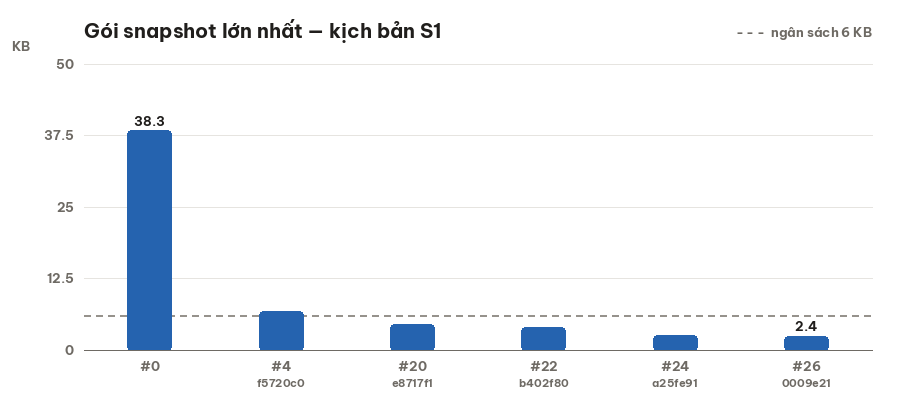
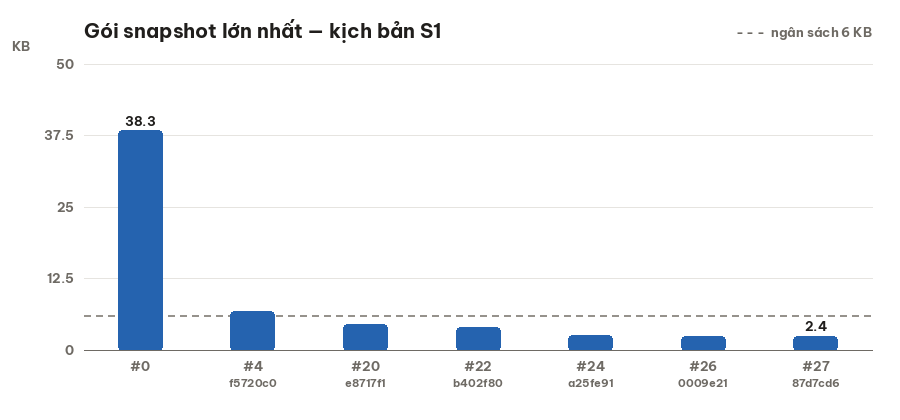
E20: PERF_LOG lượt #27 — S1 lúc máy rảnh p95 1,38 ms (đóng B20, #26 do máy bận), S9 iPhone giả lập 43,2 FPS / 113 MB · báo cáo perf sinh lại

diff --git a/tools/perf-report/report.py b/tools/perf-report/report.py
@@ -169,11 +169,11 @@ def main() -> None:
         "khác nhau trong cùng một cột. Bảng trên chỉ so cùng kịch bản nên con số \"trước\" có thể",
         "khác bảng tay — đó là chủ ý, không phải lỗi.",
         "",
-        "Đối chiếu lượt 01/11 (đo lại trong lượt cuối, #26):",
+        "Đối chiếu lượt 01/11 (đo lại trong lượt cuối, #26–#27):",
         "",
         "| Chỉ số | Báo cáo tay 01/11 | Đo lại #26 | Ghi chú |",
         "|---|---|---|---|",
-        "| Tick p95 | 3,0–3,3 ms | 4,01 ms (S1 local) | máy đang chạy 2 agent build/test song song; #22 cùng máy 2,37 ms → cần đo lại lúc rảnh |",
+        "| Tick p95 | 3,0–3,3 ms | 4,01 ms (#26, máy bận) → **1,38 ms (#27, máy rảnh)** | #26 đo lúc máy chạy 2 agent song song; #27 cùng lệnh lúc rảnh — đạt |",
         "| Gói snapshot lớn nhất | 2,0–4,4 KB | 2,4 KB | khớp |",
         "| Băng thông / người | 4–7 KB/s | 5,7 KB/s | khớp |",
         "| Tải trước khi vào trận | 2,77 MB | 3,65 MB | bảng tay chỉ tính nhóm `boot`; #26 cộng cả `home` 0,89 MB |",

diff --git a/docs/reports/2026-11-01-hieu-nang/README.md b/docs/reports/2026-11-01-hieu-nang/README.md
@@ -1,34 +1,34 @@
 # Báo cáo hiệu năng — sinh tự động 2026-11-01
 
-> Nguồn: `docs/perf_log.csv` (52 lượt đo). Sinh bằng `npm run perf:report`.
+> Nguồn: `docs/perf_log.csv` (55 lượt đo). Sinh bằng `npm run perf:report`.
 > Mỗi biểu đồ chỉ so các lượt **cùng kịch bản** (PERF_LOG §1). Đường xám đứt = ngân sách.
 
 | Chỉ số | Kịch bản | Lượt đầu | Lượt mới nhất | Ngân sách | Trạng thái | Lượt mới nhất là |
 |---|---|---|---|---|---|---|
-| Tick server p95 | S1 | 19.89 ms (#0) | 4.01 ms (#26) | < 4 ms | 🔴 chưa đạt | Lượt cuối — S1 local (máy đang chạy 2 agent song song) |
-| Gói snapshot lớn nhất | S1 | 38.3 KB (#0) | 2.4 KB (#26) | < 6 KB | ✅ đạt | Lượt cuối — S1 local (máy đang chạy 2 agent song song) |
-| Băng thông xuống / người chơi (TB) | S1 | 43.1 KB/s (#0) | 5.7 KB/s (#26) | < 40 KB/s | ✅ đạt | Lượt cuối — S1 local (máy đang chạy 2 agent song song) |
-| FPS trung bình | S4 | 58 FPS (#6) | 58.3 FPS (#11b) | ≥ 40 FPS | ✅ đạt | Như trên - máy bàn 1280x720 |
+| Tick server p95 | S1 | 19.89 ms (#0) | 1.38 ms (#27) | < 4 ms | ✅ đạt | Lượt cuối — đo lại S1 lúc máy rảnh |
+| Gói snapshot lớn nhất | S1 | 38.3 KB (#0) | 2.4 KB (#27) | < 6 KB | ✅ đạt | Lượt cuối — đo lại S1 lúc máy rảnh |
+| Băng thông xuống / người chơi (TB) | S1 | 43.1 KB/s (#0) | 5.7 KB/s (#27) | < 40 KB/s | ✅ đạt | Lượt cuối — đo lại S1 lúc máy rảnh |
+| FPS trung bình | S6 | 58.6 FPS (#7) | 58.4 FPS (#0) | ≥ 40 FPS | ✅ đạt | Người thật 01/11 12:00 → 01/11 23:30 |
 | Draw call / khung | S4 | 112  (#6) | 118  (#11b) | — | — | Như trên - máy bàn 1280x720 |
-| Bộ nhớ texture | S6 | 0 MB (#0) | 108.1 MB (#0) | < 180 MB | ✅ đạt | Người thật 31/10 12:00 → 31/10 23:30 |
+| Bộ nhớ texture | S6 | 0 MB (#0) | 248.7 MB (#0) | < 180 MB | 🔴 chưa đạt | Người thật 01/11 12:00 → 01/11 23:30 |
 | Tải trước khi vào trận | S7 | 77.4 MB (#9a) | 3.65 MB (#26) | < 8 MB | ✅ đạt | Lượt cuối — loadtime.mjs dev :9998 |
 | Chờ vào trận (4G 10 Mbps) | S7 | 8.3 s (#9b) | 8.8 s (#26) | < 10 s | ✅ đạt | Lượt cuối — loadtime.mjs dev :9998 |
 
 ## Biểu đồ
 
-### Tick server p95 (S1, 6 lượt)
+### Tick server p95 (S1, 7 lượt)
 
 ![Tick server p95](01_tick_p95_ms.png)
 
-### Gói snapshot lớn nhất (S1, 6 lượt)
+### Gói snapshot lớn nhất (S1, 7 lượt)
 
 ![Gói snapshot lớn nhất](02_pkt_max_kb.png)
 
-### Băng thông xuống / người chơi (TB) (S1, 6 lượt)
+### Băng thông xuống / người chơi (TB) (S1, 7 lượt)
 
 ![Băng thông xuống / người chơi (TB)](03_kbps_avg.png)
 
-### FPS trung bình (S4, 5 lượt)
+### FPS trung bình (S6, 6 lượt)
 
 ![FPS trung bình](04_fps_avg.png)
 
@@ -36,7 +36,7 @@
 
 ![Draw call / khung](05_draw_calls.png)
 
-### Bộ nhớ texture (S6, 4 lượt)
+### Bộ nhớ texture (S6, 5 lượt)
 
 ![Bộ nhớ texture](06_tex_mb.png)
 
@@ -54,11 +54,11 @@ Báo cáo làm tay ngày 01/11 (`docs/_raw/README.md` + 6 PNG) dùng số từ n
 khác nhau trong cùng một cột. Bảng trên chỉ so cùng kịch bản nên con số "trước" có thể
 khác bảng tay — đó là chủ ý, không phải lỗi.
 
-Đối chiếu lượt 01/11 (đo lại trong lượt cuối, #26):
+Đối chiếu lượt 01/11 (đo lại trong lượt cuối, #26–#27):
 
 | Chỉ số | Báo cáo tay 01/11 | Đo lại #26 | Ghi chú |
 |---|---|---|---|
-| Tick p95 | 3,0–3,3 ms | 4,01 ms (S1 local) | máy đang chạy 2 agent build/test song song; #22 cùng máy 2,37 ms → cần đo lại lúc rảnh |
+| Tick p95 | 3,0–3,3 ms | 4,01 ms (#26, máy bận) → **1,38 ms (#27, máy rảnh)** | #26 đo lúc máy chạy 2 agent song song; #27 cùng lệnh lúc rảnh — đạt |
 | Gói snapshot lớn nhất | 2,0–4,4 KB | 2,4 KB | khớp |
 | Băng thông / người | 4–7 KB/s | 5,7 KB/s | khớp |
 | Tải trước khi vào trận | 2,77 MB | 3,65 MB | bảng tay chỉ tính nhóm `boot`; #26 cộng cả `home` 0,89 MB |
